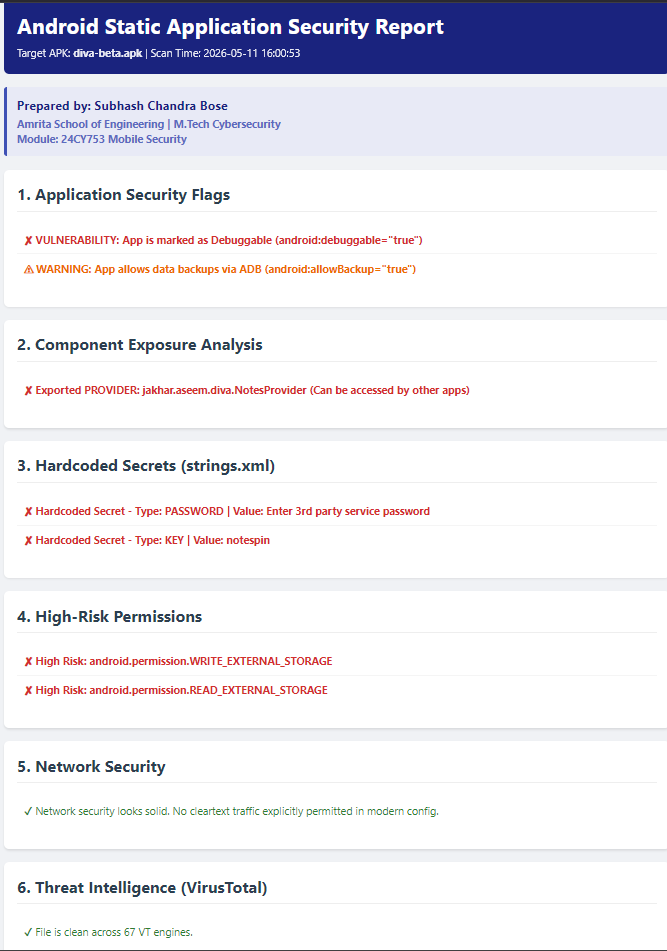
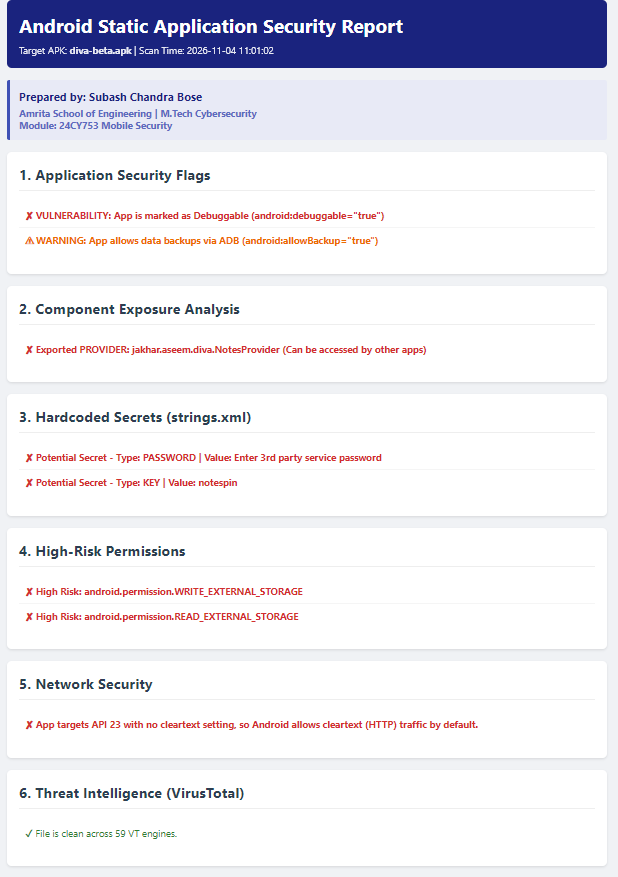
Make the cleartext check read the app's real settings (#1)
check_network_security() printed a fixed pass without reading the APK.
It now reads usesCleartextTraffic, the network security config and the
target API default.

- Correct the name in the report and label secret matches as potential
- Regenerate the report and screenshots from the official DIVA release
- Fix the README clone command and remove two unsupported claims

diff --git a/analysis_report.html b/analysis_report.html
@@ -27,10 +27,10 @@
         <div class="container">
             <div class="header">
                 <h1>Android Static Application Security Report</h1>
-                <p>Target APK: <strong>diva-beta.apk</strong> | Scan Time: 2026-05-11 16:00:53</p>
+                <p>Target APK: <strong>diva-beta.apk</strong> | Scan Time: 2026-11-04 11:01:02</p>
             </div>
             <div class="academic-block">
-                <h3>Prepared by: Subhash Chandra Bose</h3>
+                <h3>Prepared by: Subash Chandra Bose</h3>
                 <p>Amrita School of Engineering | M.Tech Cybersecurity</p>
                 <p>Module: 24CY753 Mobile Security</p>
             </div>
@@ -44,7 +44,7 @@
             </div>
             <div class="card">
                 <h2>3. Hardcoded Secrets (strings.xml)</h2>
-                <ul><li><span class='vuln'>&#10008; Hardcoded Secret - Type: PASSWORD | Value: Enter 3rd party service password</span></li><li><span class='vuln'>&#10008; Hardcoded Secret - Type: KEY | Value: notespin</span></li></ul>
+                <ul><li><span class='vuln'>&#10008; Potential Secret - Type: PASSWORD | Value: Enter 3rd party service password</span></li><li><span class='vuln'>&#10008; Potential Secret - Type: KEY | Value: notespin</span></li></ul>
             </div>
             <div class="card">
                 <h2>4. High-Risk Permissions</h2>
@@ -52,11 +52,11 @@
             </div>
             <div class="card">
                 <h2>5. Network Security</h2>
-                <ul><li><span class='safe'>&#10004; Network security looks solid. No cleartext traffic explicitly permitted in modern config.</span></li></ul>
+                <ul><li><span class='vuln'>&#10008; App targets API 23 with no cleartext setting, so Android allows cleartext (HTTP) traffic by default.</span></li></ul>
             </div>
             <div class="card">
                 <h2>6. Threat Intelligence (VirusTotal)</h2>
-                <ul><li><span class='safe'>&#10004; File is clean across 67 VT engines.</span></li></ul>
+                <ul><li><span class='safe'>&#10004; File is clean across 59 VT engines.</span></li></ul>
             </div>
         </div>
     </body>

diff --git a/analyzer.py b/analyzer.py
@@ -61,12 +61,66 @@ def analyze_manifest(output_dir, report_data):
             else:
                 report_data["permissions"].append(f"<span class='safe'>&#10004; Standard: {perm}</span>")
 
+def get_target_sdk(output_dir):
+    """Reads targetSdkVersion from apktool.yml, where Apktool records it."""
+    yml_path = os.path.join(output_dir, "apktool.yml")
+    if not os.path.exists(yml_path):
+        return None
+    with open(yml_path, 'r', encoding='utf-8') as f:
+        match = re.search(r"targetSdkVersion:\s*['\"]?(\d+)", f.read())
+    return int(match.group(1)) if match else None
+
+def add_network_finding(report_data, level, msg):
+    """Prints a network finding and adds it to the report."""
+    icons = {"vuln": "&#10008;", "warning": "&#9888;", "safe": "&#10004;"}
+    labels = {"vuln": "[!] VULNERABILITY: ", "warning": "[!] WARNING: ", "safe": "[+] "}
+    print(f"{labels[level]}{msg}")
+    report_data["network"].append(f"<span class='{level}'>{icons[level]} {msg}</span>")
+
 def check_network_security(output_dir, report_data):
-    """Checks for insecure network configurations."""
+    """Checks whether the app allows cleartext (HTTP) traffic."""
+    manifest_path = os.path.join(output_dir, "AndroidManifest.xml")
+    if not os.path.exists(manifest_path):
+        return
+
     print("\n[*] Analyzing Network Security Configurations...")
-    msg = "Network security looks solid. No cleartext traffic explicitly permitted in modern config."
-    print(f"[+] {msg}")
-    report_data["network"].append(f"<span class='safe'>&#10004; {msg}</span>")
+    namespace = '{http://schemas.android.com/apk/res/android}'
+    app_element = ET.parse(manifest_path).getroot().find(".//application")
+    if app_element is None:
+        return
+
+    config_ref = app_element.attrib.get(f'{namespace}networkSecurityConfig')
+    if config_ref:
+        # Android ignores usesCleartextTraffic from API 24 when this config exists
+        source = "the network security config"
+        config_path = os.path.join(output_dir, "res", "xml", config_ref.split("/")[-1] + ".xml")
+        if not os.path.exists(config_path):
+            add_network_finding(report_data, "warning", f"Could not read the network security config {config_ref}.")
+            return
+        config_root = ET.parse(config_path).getroot()
+        base_config = config_root.find("base-config")
+        setting = base_config.attrib.get("cleartextTrafficPermitted") if base_config is not None else None
+        for domain_config in config_root.iter("domain-config"):
+            if domain_config.attrib.get("cleartextTrafficPermitted") == "true":
+                domains = ", ".join(d.text.strip() for d in domain_config.findall("domain") if d.text)
+                add_network_finding(report_data, "warning", f"Cleartext (HTTP) traffic allowed for: {domains}")
+    else:
+        source = "android:usesCleartextTraffic"
+        setting = app_element.attrib.get(f'{namespace}usesCleartextTraffic')
+
+    if setting == "true":
+        add_network_finding(report_data, "vuln", f"Cleartext (HTTP) traffic allowed by {source}.")
+    elif setting == "false":
+        add_network_finding(report_data, "safe", f"Cleartext (HTTP) traffic blocked by {source}.")
+    else:
+        # With no explicit setting, Android allows cleartext up to API 27 and blocks it from API 28
+        target_sdk = get_target_sdk(output_dir)
+        if target_sdk is None:
+            add_network_finding(report_data, "warning", "Could not read targetSdkVersion, so the cleartext default is unknown.")
+        elif target_sdk < 28:
+            add_network_finding(report_data, "vuln", f"App targets API {target_sdk} with no cleartext setting, so Android allows cleartext (HTTP) traffic by default.")
+        else:
+            add_network_finding(report_data, "safe", f"App targets API {target_sdk} with no cleartext setting, so Android blocks cleartext (HTTP) traffic by default.")
 
 def check_exported_components(output_dir, report_data):
     """Scans the manifest for explicitly exported components."""
@@ -110,7 +164,7 @@ def find_secrets(output_dir, report_data):
         for match in matches:
             msg = f"Type: {match[0].upper()} | Value: {match[1]}"
             print(f"[!] POTENTIAL SECRET FOUND - {msg}")
-            report_data["secrets"].append(f"<span class='vuln'>&#10008; Hardcoded Secret - {msg}</span>")
+            report_data["secrets"].append(f"<span class='vuln'>&#10008; Potential Secret - {msg}</span>")
 
 def check_virustotal(apk_path, report_data):
     """Calculates APK hash and queries VirusTotal API."""
@@ -198,7 +252,7 @@ def generate_html_report(report_data, target_apk):
                 <p>Target APK: <strong>{target_apk}</strong> | Scan Time: {date_time}</p>
             </div>
             <div class="academic-block">
-                <h3>Prepared by: Subhash Chandra Bose</h3>
+                <h3>Prepared by: Subash Chandra Bose</h3>
                 <p>Amrita School of Engineering | M.Tech Cybersecurity</p>
                 <p>Module: 24CY753 Mobile Security</p>
             </div>

diff --git a/README.md b/README.md
@@ -29,9 +29,9 @@ An automated, enterprise-grade Static Application Security Testing (SAST) tool e
 * **Automated Reverse Engineering:** Utilizes Apktool to programmatically unpack and decompile Android binaries (APK to Smali/XML).
 * **Manifest & Component Auditing:** Identifies high-risk developer flags (`debuggable`, `allowBackup`) and improperly exported components (Activities, Services, Providers) to prevent lateral privilege escalation.
 * **Hardcoded Secret Discovery:** Employs targeted Regular Expressions (Regex) to extract leaked API keys, authentication tokens, and passwords directly from application resource files (`strings.xml`).
-* **Network Security Verification:** Audits application network configurations for insecure cleartext (HTTP) traffic allowances.
-* **Threat Intelligence Integration:** Computes cryptographic hashes (SHA-256) of target binaries and queries the **VirusTotal API** for global malware consensus and zero-day threat detection.
-* **Enterprise Reporting:** Generates a dynamic, structured HTML dashboard for Security Operations Center (SOC) review and SIEM ingestion readiness.
+* **Network Security Verification:** Checks `usesCleartextTraffic`, the network security config and the target API default to see whether the app allows cleartext (HTTP) traffic.
+* **Threat Intelligence Integration:** Computes cryptographic hashes (SHA-256) of target binaries and queries the **VirusTotal API** for global malware consensus.
+* **Enterprise Reporting:** Generates a dynamic, structured HTML dashboard for Security Operations Center (SOC) review.
 
 ## 🛠 Technology Stack
 * **Core Language:** Python 3
@@ -49,8 +49,8 @@ An automated, enterprise-grade Static Application Security Testing (SAST) tool e
 ### Setup Instructions
 1. Clone the repository:
    ```bash
-   git clone [https://github.com/YOUR_USERNAME/android-sast-pipeline.git](https://github.com/YOUR_USERNAME/android-sast-pipeline.git)
-   cd android-sast-pipeline
+   git clone https://github.com/Subash-1507/Enterprise-apk-analyzer.git
+   cd Enterprise-apk-analyzer
 
    pip install requests
 
